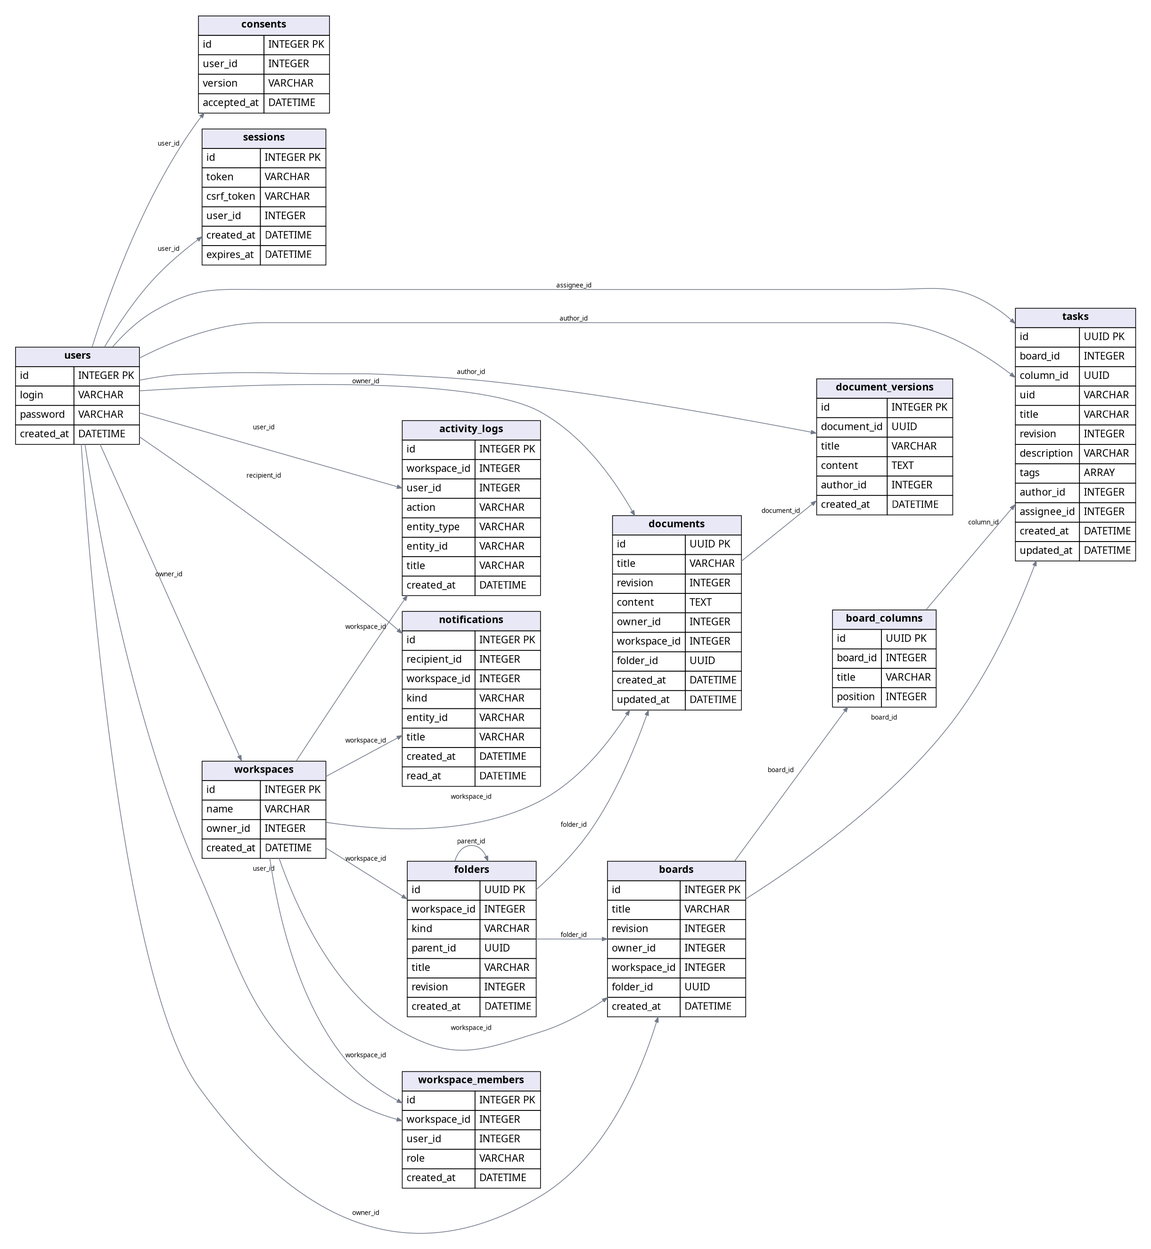
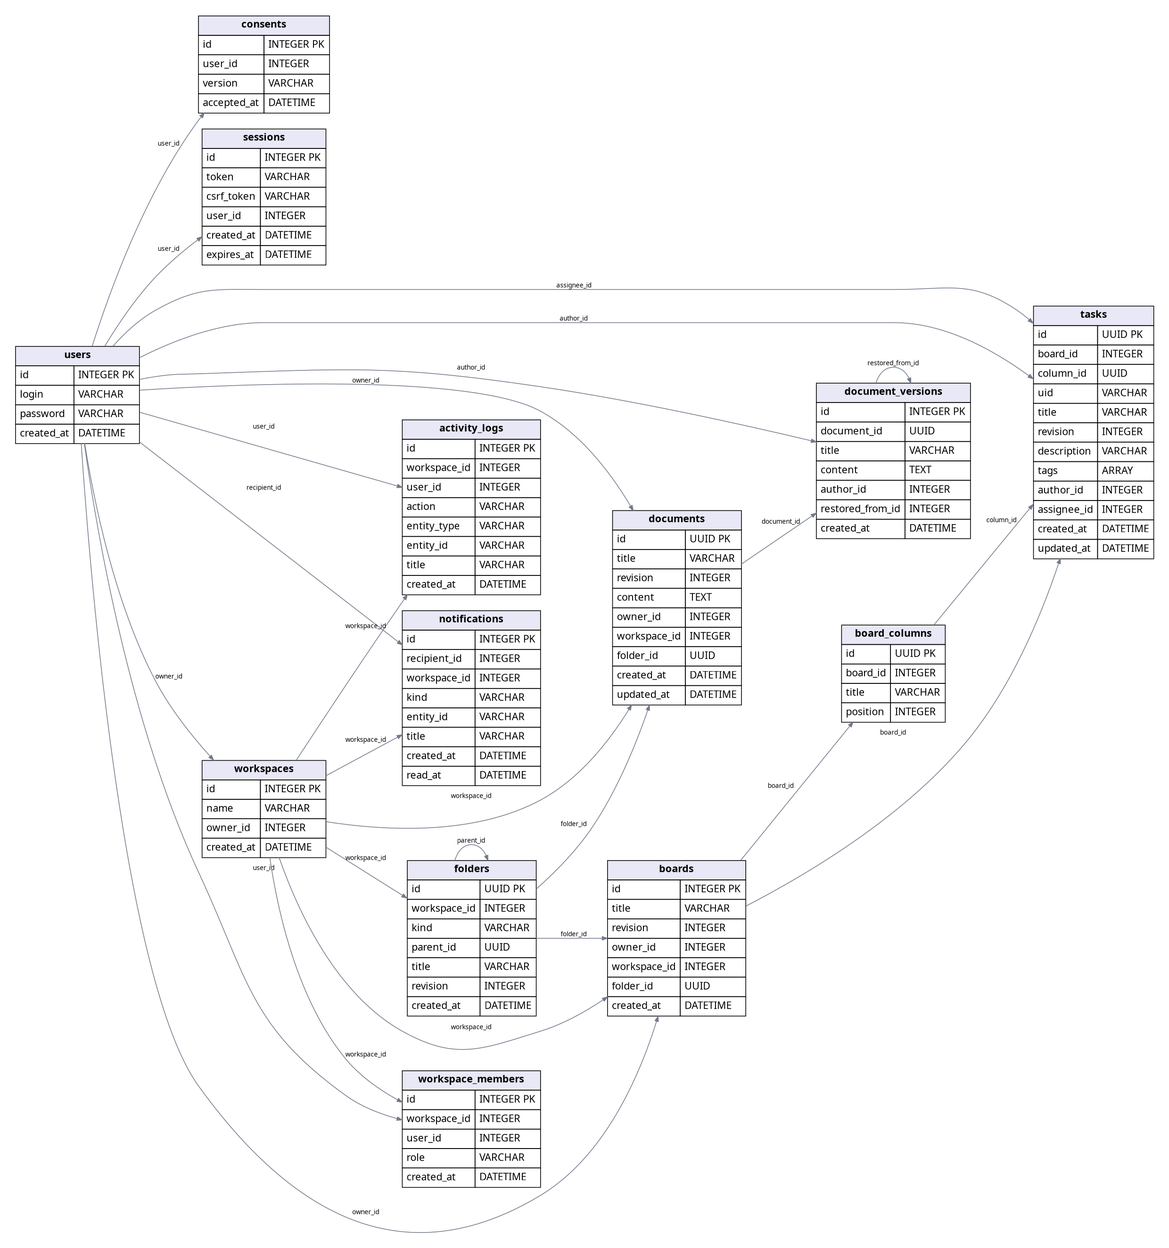
fix: prevent duplicate sessions and preserve restored versions

diff --git a/frontend/src/pages/login/Login.test.jsx b/frontend/src/pages/login/Login.test.jsx
@@ -1,0 +1,78 @@
+import { act, render, screen, waitFor } from '@testing-library/react'
+import { MemoryRouter, Route, Routes } from 'react-router-dom'
+import { afterEach, beforeEach, expect, it, vi } from 'vitest'
+import { setSession } from '@/shared/api/client'
+import { useAuthStore } from '@/shared/store/authStore'
+import { usePrivacyStore } from '@/shared/store/privacyStore'
+import { deferred, response } from '@/test/fixtures'
+import Login from './index'
+
+vi.mock('@/shared/lib/encryptPassword', () => ({ encryptPassword: async () => ({ encrypted_password: 'encrypted' }) }))
+
+beforeEach(() => {
+	setSession(null)
+	useAuthStore.setState({ authenticated: false, user: null, validated: true, error: '' })
+	usePrivacyStore.setState({ config: { consent_version: '2026-10-07' }, error: '' })
+	vi.stubGlobal('fetch', vi.fn())
+})
+afterEach(() => setSession(null))
+
+function renderLogin(path = '/login') {
+	return render(<MemoryRouter initialEntries={[path]}><Routes>
+		<Route path="/login" element={<Login />} />
+		<Route path="/dashboard" element={<p>Рабочая область</p>} />
+	</Routes></MemoryRouter>)
+}
+
+for (const path of ['/login', '/login?mode=register']) {
+	it(`redirects an authenticated visitor from ${path} without rendering a form`, async () => {
+		useAuthStore.setState({ authenticated: true, user: { id: 1, login: 'owner' } })
+		renderLogin(path)
+		expect(await screen.findByText('Рабочая область')).toBeInTheDocument()
+		expect(screen.queryByRole('textbox', { name: 'Логин' })).not.toBeInTheDocument()
+		expect(fetch).not.toHaveBeenCalled()
+	})
+}
+
+it('checks the cookie on direct navigation before showing registration', async () => {
+	useAuthStore.setState({ validated: false })
+	const me = deferred(), csrf = deferred()
+	fetch.mockReturnValueOnce(me.promise).mockReturnValueOnce(csrf.promise)
+	renderLogin('/login?mode=register')
+	expect(screen.getByText('Проверка сессии…')).toBeInTheDocument()
+	expect(screen.queryByRole('button', { name: 'Создать аккаунт' })).not.toBeInTheDocument()
+	await act(async () => {
+		me.resolve(response({ id: 1, login: 'owner' }))
+		csrf.resolve(response({ csrf_token: 'csrf' }))
+	})
+	expect(await screen.findByText('Рабочая область')).toBeInTheDocument()
+	expect(fetch.mock.calls.every(call => (call[1].method || 'GET') === 'GET')).toBe(true)
+})
+
+it('rejects direct store login and registration when already authenticated', async () => {
+	useAuthStore.setState({ authenticated: true, user: { id: 1, login: 'owner' } })
+	await expect(useAuthStore.getState().login('owner', 'password')).rejects.toMatchObject({ code: 'already_authenticated' })
+	await expect(useAuthStore.getState().register('next', 'password', {})).rejects.toMatchObject({ code: 'already_authenticated' })
+	expect(fetch).not.toHaveBeenCalled()
+})
+
+it('shares a pending authentication request instead of creating duplicate sessions', async () => {
+	const request = deferred()
+	fetch.mockReturnValueOnce(request.promise)
+	const first = useAuthStore.getState().login('owner', 'password')
+	const second = useAuthStore.getState().login('owner', 'password')
+	expect(second).toBe(first)
+	await waitFor(() => expect(fetch).toHaveBeenCalledTimes(1))
+	request.resolve(response({ user: { id: 1, login: 'owner' }, csrf_token: 'csrf' }))
+	await Promise.all([first, second])
+	expect(useAuthStore.getState().authenticated).toBe(true)
+})
+
+it('checks a restored cookie before a direct store request can create a session', async () => {
+	useAuthStore.setState({ validated: false })
+	fetch.mockResolvedValueOnce(response({ id: 1, login: 'owner' }))
+		.mockResolvedValueOnce(response({ csrf_token: 'csrf' }))
+	await expect(useAuthStore.getState().login('next', 'password')).rejects.toMatchObject({ code: 'already_authenticated' })
+	expect(fetch).toHaveBeenCalledTimes(2)
+	expect(fetch.mock.calls.every(call => call[1].method === 'GET')).toBe(true)
+})

diff --git a/frontend/src/pages/login/index.jsx b/frontend/src/pages/login/index.jsx
@@ -1,5 +1,5 @@
 import { useEffect, useState } from 'react'
-import { Link, useNavigate, useSearchParams } from 'react-router-dom'
+import { Link, Navigate, useNavigate, useSearchParams } from 'react-router-dom'
 import { useAuthStore } from '@/shared/store/authStore'
 import { Button } from '@/components/ui/button'
 import { Input } from '@/components/ui/input'
@@ -14,6 +14,10 @@ export default function Login() {
 	const [searchParams] = useSearchParams()
 	const register = useAuthStore(state => state.register)
 	const login = useAuthStore(state => state.login)
+	const authenticated = useAuthStore(state => state.authenticated)
+	const validated = useAuthStore(state => state.validated)
+	const sessionError = useAuthStore(state => state.error)
+	const validateSession = useAuthStore(state => state.validateSession)
 
 	const [mode, setMode] = useState(searchParams.get('mode') === 'register' ? 'register' : 'login')
 	const [loginValue, setLoginValue] = useState('')
@@ -25,10 +29,12 @@ export default function Login() {
 	const privacy = usePrivacyStore(state => state.config)
 	const loadPrivacy = usePrivacyStore(state => state.load)
 	const privacyError = usePrivacyStore(state => state.error)
-	useEffect(() => { if (mode === 'register' && !privacy) loadPrivacy() }, [mode, privacy, loadPrivacy])
+	useEffect(() => { if (!validated) validateSession() }, [validated, validateSession])
+	useEffect(() => { if (validated && !authenticated && mode === 'register' && !privacy) loadPrivacy() }, [validated, authenticated, mode, privacy, loadPrivacy])
 
 	async function submit(e) {
 		e.preventDefault()
+		if (loading) return
 		setError('')
 
 		if (!LOGIN_PATTERN.test(loginValue)) {
@@ -54,6 +60,10 @@ export default function Login() {
 		}
 	}
 
+	if (!validated) return <div className="px-8 py-12 text-center text-sm">
+		{sessionError ? <><p>{sessionError}</p><button type="button" onClick={validateSession}>{authText.retry}</button></> : authText.checkingSession}
+	</div>
+	if (authenticated) return <Navigate to="/dashboard" replace />
 	return (
 		<section className="flex min-h-[calc(100vh-160px)] items-center justify-center px-4 py-12 animate-in fade-in duration-300">
 			<div className="w-full max-w-md rounded-xl border border-border border-l-[3px] border-l-primary bg-card p-8 shadow-lg">

diff --git a/frontend/src/shared/store/authStore.js b/frontend/src/shared/store/authStore.js
@@ -1,6 +1,7 @@
 import { create } from 'zustand'
-import { api, setSession, setCsrf, onUnauthorized, getSessionVersion } from '../api/client'
+import { api, ApiError, setSession, setCsrf, onUnauthorized, getSessionVersion } from '../api/client'
 import { encryptPassword } from '../lib/encryptPassword'
+import { errorMessages } from '../messages/errors'
 
 sessionStorage.removeItem('token')
 sessionStorage.removeItem('user')
@@ -9,13 +10,17 @@ const SESSION_SIGNAL = 'ethereal-notes:session-change'
 function broadcast() { localStorage.setItem(SESSION_SIGNAL, `${Date.now()}:${Math.random()}`) }
 
 export const useAuthStore = create((set, get) => {
+    let authentication = null
     function clearSession({ broadcastChange = true } = {}) {
         setSession(null)
         validation = null
         set({ authenticated: false, user: null, validated: true, validating: false, error: '' })
         if (broadcastChange) broadcast()
     }
-    async function authenticate(path, login, password, extra = {}) {
+    async function performAuthentication(path, login, password, extra) {
+        if (!get().validated) await get().validateSession()
+        if (!get().validated) throw new Error(get().error || errorMessages.request_failed)
+        if (get().authenticated) throw new ApiError(errorMessages.already_authenticated, 'already_authenticated', 409)
         const version = getSessionVersion()
         const encrypted = await encryptPassword(password)
         const data = await api(path, { method: 'POST', body: { login, ...encrypted, ...extra } })
@@ -24,6 +29,14 @@ export const useAuthStore = create((set, get) => {
         setCsrf(data.csrf_token)
         set({ authenticated: true, user: data.user, validated: true, validating: false, error: '' })
         broadcast()
+    }
+    function authenticate(path, login, password, extra = {}) {
+        if (authentication) return authentication
+        const operation = performAuthentication(path, login, password, extra).finally(() => {
+            if (authentication === operation) authentication = null
+        })
+        authentication = operation
+        return operation
     }
     return {
         authenticated: false, user: null, validated: false, validating: false, error: '',

diff --git a/frontend/src/pages/regressions.test.jsx b/frontend/src/pages/regressions.test.jsx
@@ -76,6 +76,25 @@ it('waits for restoration and keeps the draft visible after a failed response', 
 	expect(screen.getByLabelText('Текст документа')).toHaveValue('Draft')
 })
 
+it('confirms a restore without deleting history and shows the source version of the new entry', async () => {
+	const first = { id: 7, title: 'Первая', content: 'First', author_login: 'owner', created_at: '2026-09-29T10:00:00' }
+	const second = { ...first, id: 8, title: 'Вторая', content: 'Second', created_at: '2026-09-30T10:00:00' }
+	useDocumentsStore.setState({ documents: [{ ...document, title: second.title, content: second.content, versions: [second, first] }] })
+	fetch.mockResolvedValueOnce(response({ ...document, title: first.title, content: first.content, revision: 2, versions: [{ ...first, id: 9, restored_from_id: first.id, created_at: '2026-10-01T10:00:00' }, second, first] }))
+	render(<Documents />)
+	await userEvent.click(screen.getAllByRole('button', { name: 'Откатить' })[1])
+	const dialog = screen.getByRole('dialog')
+	expect(dialog).toHaveTextContent('Создадим новую версию со ссылкой на v1')
+	expect(dialog).toHaveTextContent('Все сохранённые версии останутся в истории')
+	expect(dialog).not.toHaveTextContent('Будет удалено')
+	await userEvent.click(within(dialog).getByRole('button', { name: 'Откатить' }))
+	expect(await screen.findByText('Восстановлена из v1')).toBeInTheDocument()
+	expect(screen.getByLabelText('Текст документа')).toHaveValue('First')
+	expect(screen.getAllByRole('button', { name: 'Откатить' })).toHaveLength(3)
+	await userEvent.click(screen.getByRole('button', { name: 'Восстановлена из v1' }))
+	expect(screen.getByText(/Просмотр версии от 29.09.2026/)).toBeInTheDocument()
+})
+
 for (const view of ['self', 'all', '2']) {
 	it(`deletes the last column including hidden tasks in view ${view}`, async () => {
 		const tasks = [{ id: 'task-1', column_id: 'column', assignee_id: 2, author_id: 1, title: 'Task', tags: [], uid: '1001' }]

diff --git a/frontend/src/pages/documents/index.jsx b/frontend/src/pages/documents/index.jsx
@@ -106,7 +106,6 @@ function DocumentWorkspace({ doc, isManager }) {
 	const preview = previewId ? doc.versions.find(version => version.id === previewId) : null
 	const confirmIndex = confirmId ? doc.versions.findIndex(version => version.id === confirmId) : -1
 	const confirmVersion = confirmIndex >= 0 ? doc.versions[confirmIndex] : null
-	const dropCount = Math.max(confirmIndex, 0)
 	const shownUpdatedAt = preview ? preview.created_at : doc.updated_at
 	const shownUpdatedBy = preview ? preview.author_login || documentText.unknownAuthor : doc.updated_by || doc.author_login || documentText.unknownAuthor
 	const statusLabel = saveStatus === 'saving' ? documentText.saving : hasUnsavedChanges ? documentText.unsaved : documentText.saved
@@ -235,6 +234,9 @@ function DocumentWorkspace({ doc, isManager }) {
 										</span>
 										<span className="truncate text-sm text-secondary-foreground">{version.title}</span>
 									</button>
+									{version.restored_from_id ? <button type="button" className="self-start text-left text-[0.7rem] text-primary hover:underline" onClick={() => setPreviewId(version.restored_from_id)}>
+										{documentText.restoredFrom(doc.versions.length - doc.versions.findIndex(item => item.id === version.restored_from_id))}
+									</button> : null}
 									{isManager ? <Button
 										type="button"
 										variant="outline"
@@ -257,10 +259,7 @@ function DocumentWorkspace({ doc, isManager }) {
 				title={documentText.restoreTitle}
 				text={
 					confirmVersion
-						? `Вернёмся к версии от ${formatDate(confirmVersion.created_at)}.` +
-							(dropCount > 0
-								? ` Будет удалено более новых версий: ${dropCount}.`
-								: ' Более новых версий нет.')
+						? documentText.restoreConfirmation(doc.versions.length - confirmIndex, formatDate(confirmVersion.created_at))
 						: ''
 				}
 				confirmLabel={documentText.restore}

diff --git a/frontend/src/shared/messages/documents.js b/frontend/src/shared/messages/documents.js
@@ -2,5 +2,7 @@ export const documentText = {
 	export: 'Экспорт', exporting: 'Создание файла…', exported: 'Файл готов',
 	conflict: 'Документ изменён другим участником. Ваш черновик сохранён.',
 	loadServer: 'Загрузить серверную версию', keepMine: 'Сохранить мой текст',
+	restoredFrom: version => `Восстановлена из v${version}`,
+	restoreConfirmation: (version, date) => `Создадим новую версию со ссылкой на v${version} от ${date}. Все сохранённые версии останутся в истории.`,
 	untitled: 'Без названия', loading: 'Загрузка документов…', loadError: 'Не удалось загрузить документы:', select: 'Создайте или выберите документ слева', unknownAuthor: 'неизвестно', saving: 'сохраняю…', unsaved: 'есть несохранённые изменения', saved: 'сохранено', autoSave: 'Автосохранение', titlePlaceholder: 'Название документа', retrySave: 'Повторить сохранение', current: 'К текущей', versions: 'Версии', emptyVersions: 'Пока нет сохранённых версий', restore: 'Откатить', restoreTitle: 'Откатить документ?',
 }

diff --git a/frontend/src/pages/documentation/index.jsx b/frontend/src/pages/documentation/index.jsx
@@ -24,7 +24,7 @@ const sections = [
 	{
 		title: 'Документы и версии',
 		icon: FileText,
-		text: 'Доски и документы можно раскладывать по вложенным папкам и находить через поиск. Документы поддерживают форматирование, черновики, автосохранение и историю версий. При одновременной правке черновик сохраняется: можно загрузить серверную редакцию или явно сохранить свой текст.',
+		text: 'Доски и документы можно раскладывать по вложенным папкам и находить через поиск. Документы поддерживают форматирование, черновики, автосохранение и историю версий. Откат создаёт новую версию со ссылкой на старую, сохраняя всю историю. При одновременной правке черновик сохраняется: можно загрузить серверную редакцию или явно сохранить свой текст.',
 	},
 	{
 		title: 'Журнал действий',

diff --git a/frontend/src/shared/messages/errors.js b/frontend/src/shared/messages/errors.js
@@ -27,6 +27,7 @@ export const errorMessages = {
 	owner_role: "Нельзя изменить роль владельца",
 
 	invalid_credentials: 'Неверный логин или пароль',
+	already_authenticated: 'Вы уже вошли. Сначала выйдите из аккаунта',
 	unauthorized: 'Сессия истекла. Войдите снова', forbidden: 'Недостаточно прав',
 	csrf: 'Не удалось проверить безопасность запроса. Обновите страницу',
 	revision_conflict: 'Данные изменены другим участником. Загрузите актуальную версию',

diff --git a/frontend/src/shared/store/postDefense.test.jsx b/frontend/src/shared/store/postDefense.test.jsx
@@ -104,6 +104,7 @@ it('preserves a draft during a remote update', async () => {
 })
 
 it('requires an unchecked separate consent before registering', async () => {
+	useAuthStore.setState({ user: null, authenticated: false, validated: true })
 	usePrivacyStore.setState({ config: { consent_version: '2026-10-07' }, error: '' })
 	render(<MemoryRouter initialEntries={['/login?mode=register']}><Login /></MemoryRouter>)
 	const checkbox = screen.getByRole('checkbox', { name: 'Я даю согласие на обработку персональных данных' })

diff --git a/frontend/src/shared/messages/auth.js b/frontend/src/shared/messages/auth.js
@@ -3,4 +3,5 @@ export const authText = {
 	loginInvalid: 'Логин: только латиница, цифры и _', passwordShort: 'Пароль минимум 4 символа',
 	consentRequired: 'Подтвердите согласие на обработку персональных данных', remember: 'Запомнить меня',
 	consentLabel: 'Я даю согласие на обработку персональных данных',
+	checkingSession: 'Проверка сессии…',
 }

diff --git a/frontend/src/shared/store/regressions.test.js b/frontend/src/shared/store/regressions.test.js
@@ -113,6 +113,7 @@ describe('workspace and session isolation', () => {
 		const old = deferred()
 		fetch.mockReturnValueOnce(old.promise)
 		const request = api('/auth/me').catch(error => error)
+		useAuthStore.getState().clearSession({ broadcastChange: false })
 		fetch.mockResolvedValueOnce(response({ csrf_token: 'csrf-2', user: { id: 2, login: 'next' } }))
 		await useAuthStore.getState().login('next', 'password')
 		old.resolve(response({ detail: 'expired' }, 401))

diff --git a/backend/tests/test_auth_sessions.py b/backend/tests/test_auth_sessions.py
@@ -1,0 +1,92 @@
+import asyncio
+from uuid import uuid4
+
+import pytest
+from sqlalchemy import select, text
+from sqlalchemy.ext.asyncio import create_async_engine
+from sqlalchemy.pool import NullPool
+
+from app.config import settings
+from app.models import Session, User
+from conftest import auth_header, cleanup, credentials
+
+
+async def session_tokens(user_id):
+    engine = create_async_engine(settings.database_url, poolclass=NullPool)
+    try:
+        async with engine.connect() as connection:
+            return list((await connection.execute(select(Session.token).where(Session.user_id == user_id))).scalars())
+    finally:
+        await engine.dispose()
+
+
+async def change_session(user_id, operation):
+    engine = create_async_engine(settings.database_url, poolclass=NullPool)
+    try:
+        async with engine.begin() as connection:
+            await connection.execute(text(operation), {"id": user_id})
+    finally:
+        await engine.dispose()
+
+
+@pytest.mark.parametrize("path", ["/auth/login", "/auth/register"])
+@pytest.mark.parametrize("remember", [False, True])
+def test_active_session_blocks_repeated_auth_without_creating_rows(client, users, path, remember):
+    user, other = users(), users()
+    login = other["login"] if path.endswith("login") else "blocked_" + uuid4().hex
+    payload = {**credentials(client, login, "Integration123!"), "remember": remember}
+    before = asyncio.run(session_tokens(user["id"]))
+    for _ in range(3):
+        result = client.post(path, json=payload, headers=auth_header(user))
+        assert result.status_code == 409
+        assert result.json()["code"] == "already_authenticated"
+        assert "set-cookie" not in result.headers
+    assert asyncio.run(session_tokens(user["id"])) == before
+    assert asyncio.run(session_tokens(other["id"])) == [other["cookie"]]
+    assert client.get("/auth/me", headers=auth_header(user)).json()["id"] == user["id"]
+
+    async def registered():
+        engine = create_async_engine(settings.database_url, poolclass=NullPool)
+        try:
+            async with engine.connect() as connection:
+                return await connection.scalar(select(User.id).where(User.login == login))
+        finally:
+            await engine.dispose()
+
+    if path.endswith("register"):
+        assert asyncio.run(registered()) is None
+
+
+@pytest.mark.parametrize("state", ["expired", "revoked", "unknown"])
+def test_invalid_cookie_does_not_block_login(client, users, state):
+    user = users()
+    if state == "expired":
+        asyncio.run(change_session(user["id"], "UPDATE sessions SET expires_at=now()-interval '1 second' WHERE user_id=:id"))
+    else:
+        asyncio.run(change_session(user["id"], "DELETE FROM sessions WHERE user_id=:id"))
+    token = "unknown-session" if state == "unknown" else user["cookie"]
+    result = client.post("/auth/login", json=credentials(client, user["login"], "Integration123!"),
+                         headers={"Cookie": "ethereal_session=" + token})
+    assert result.status_code == 200
+    assert asyncio.run(session_tokens(user["id"])) == [result.cookies.get("ethereal_session")]
+    client.cookies.clear()
+
+
+def test_login_after_logout_creates_one_session(client, users):
+    user = users()
+    assert client.post("/auth/logout", headers=auth_header(user)).status_code == 204
+    result = client.post("/auth/login", json=credentials(client, user["login"], "Integration123!"))
+    assert result.status_code == 200
+    assert asyncio.run(session_tokens(user["id"])) == [result.cookies.get("ethereal_session")]
+    client.cookies.clear()
+
+
+def test_expired_cookie_does_not_block_registration(client, users):
+    user = users()
+    asyncio.run(change_session(user["id"], "UPDATE sessions SET expires_at=now()-interval '1 second' WHERE user_id=:id"))
+    result = client.post("/auth/register", json=credentials(client, "new_" + uuid4().hex, "Integration123!"),
+                         headers=auth_header(user))
+    assert result.status_code == 201
+    assert asyncio.run(session_tokens(user["id"])) == []
+    asyncio.run(cleanup([result.json()["user"]["id"]]))
+    client.cookies.clear()
